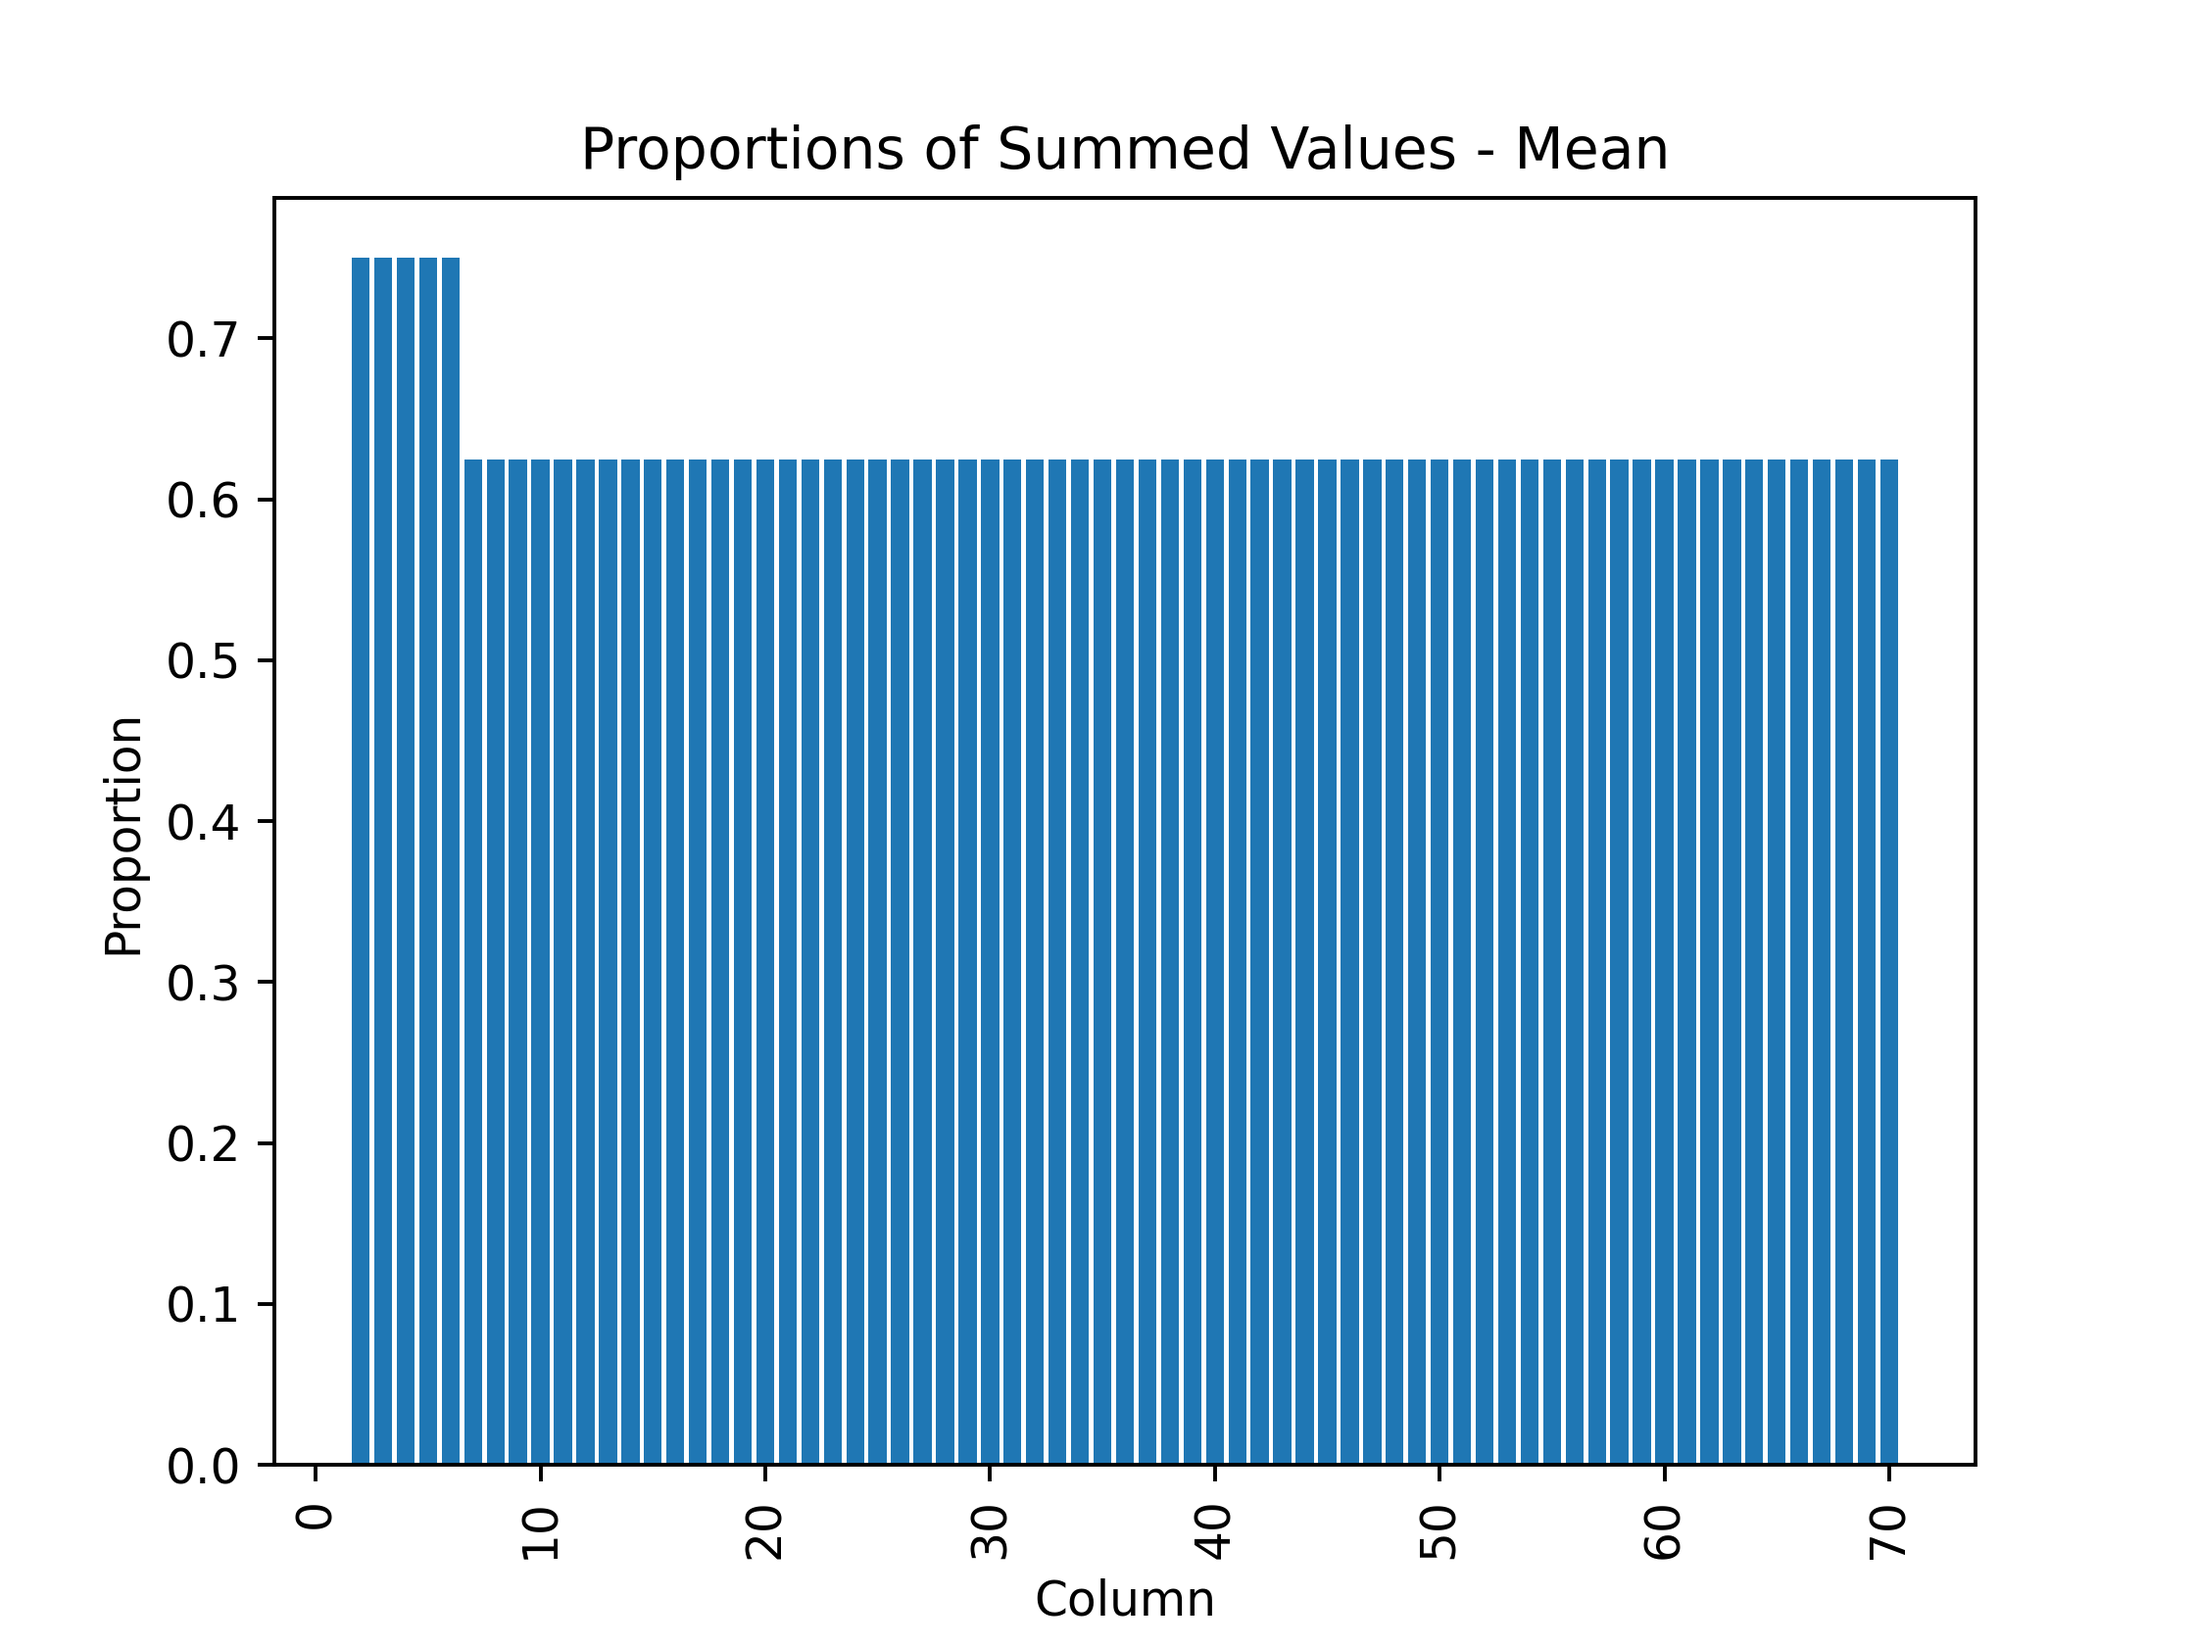
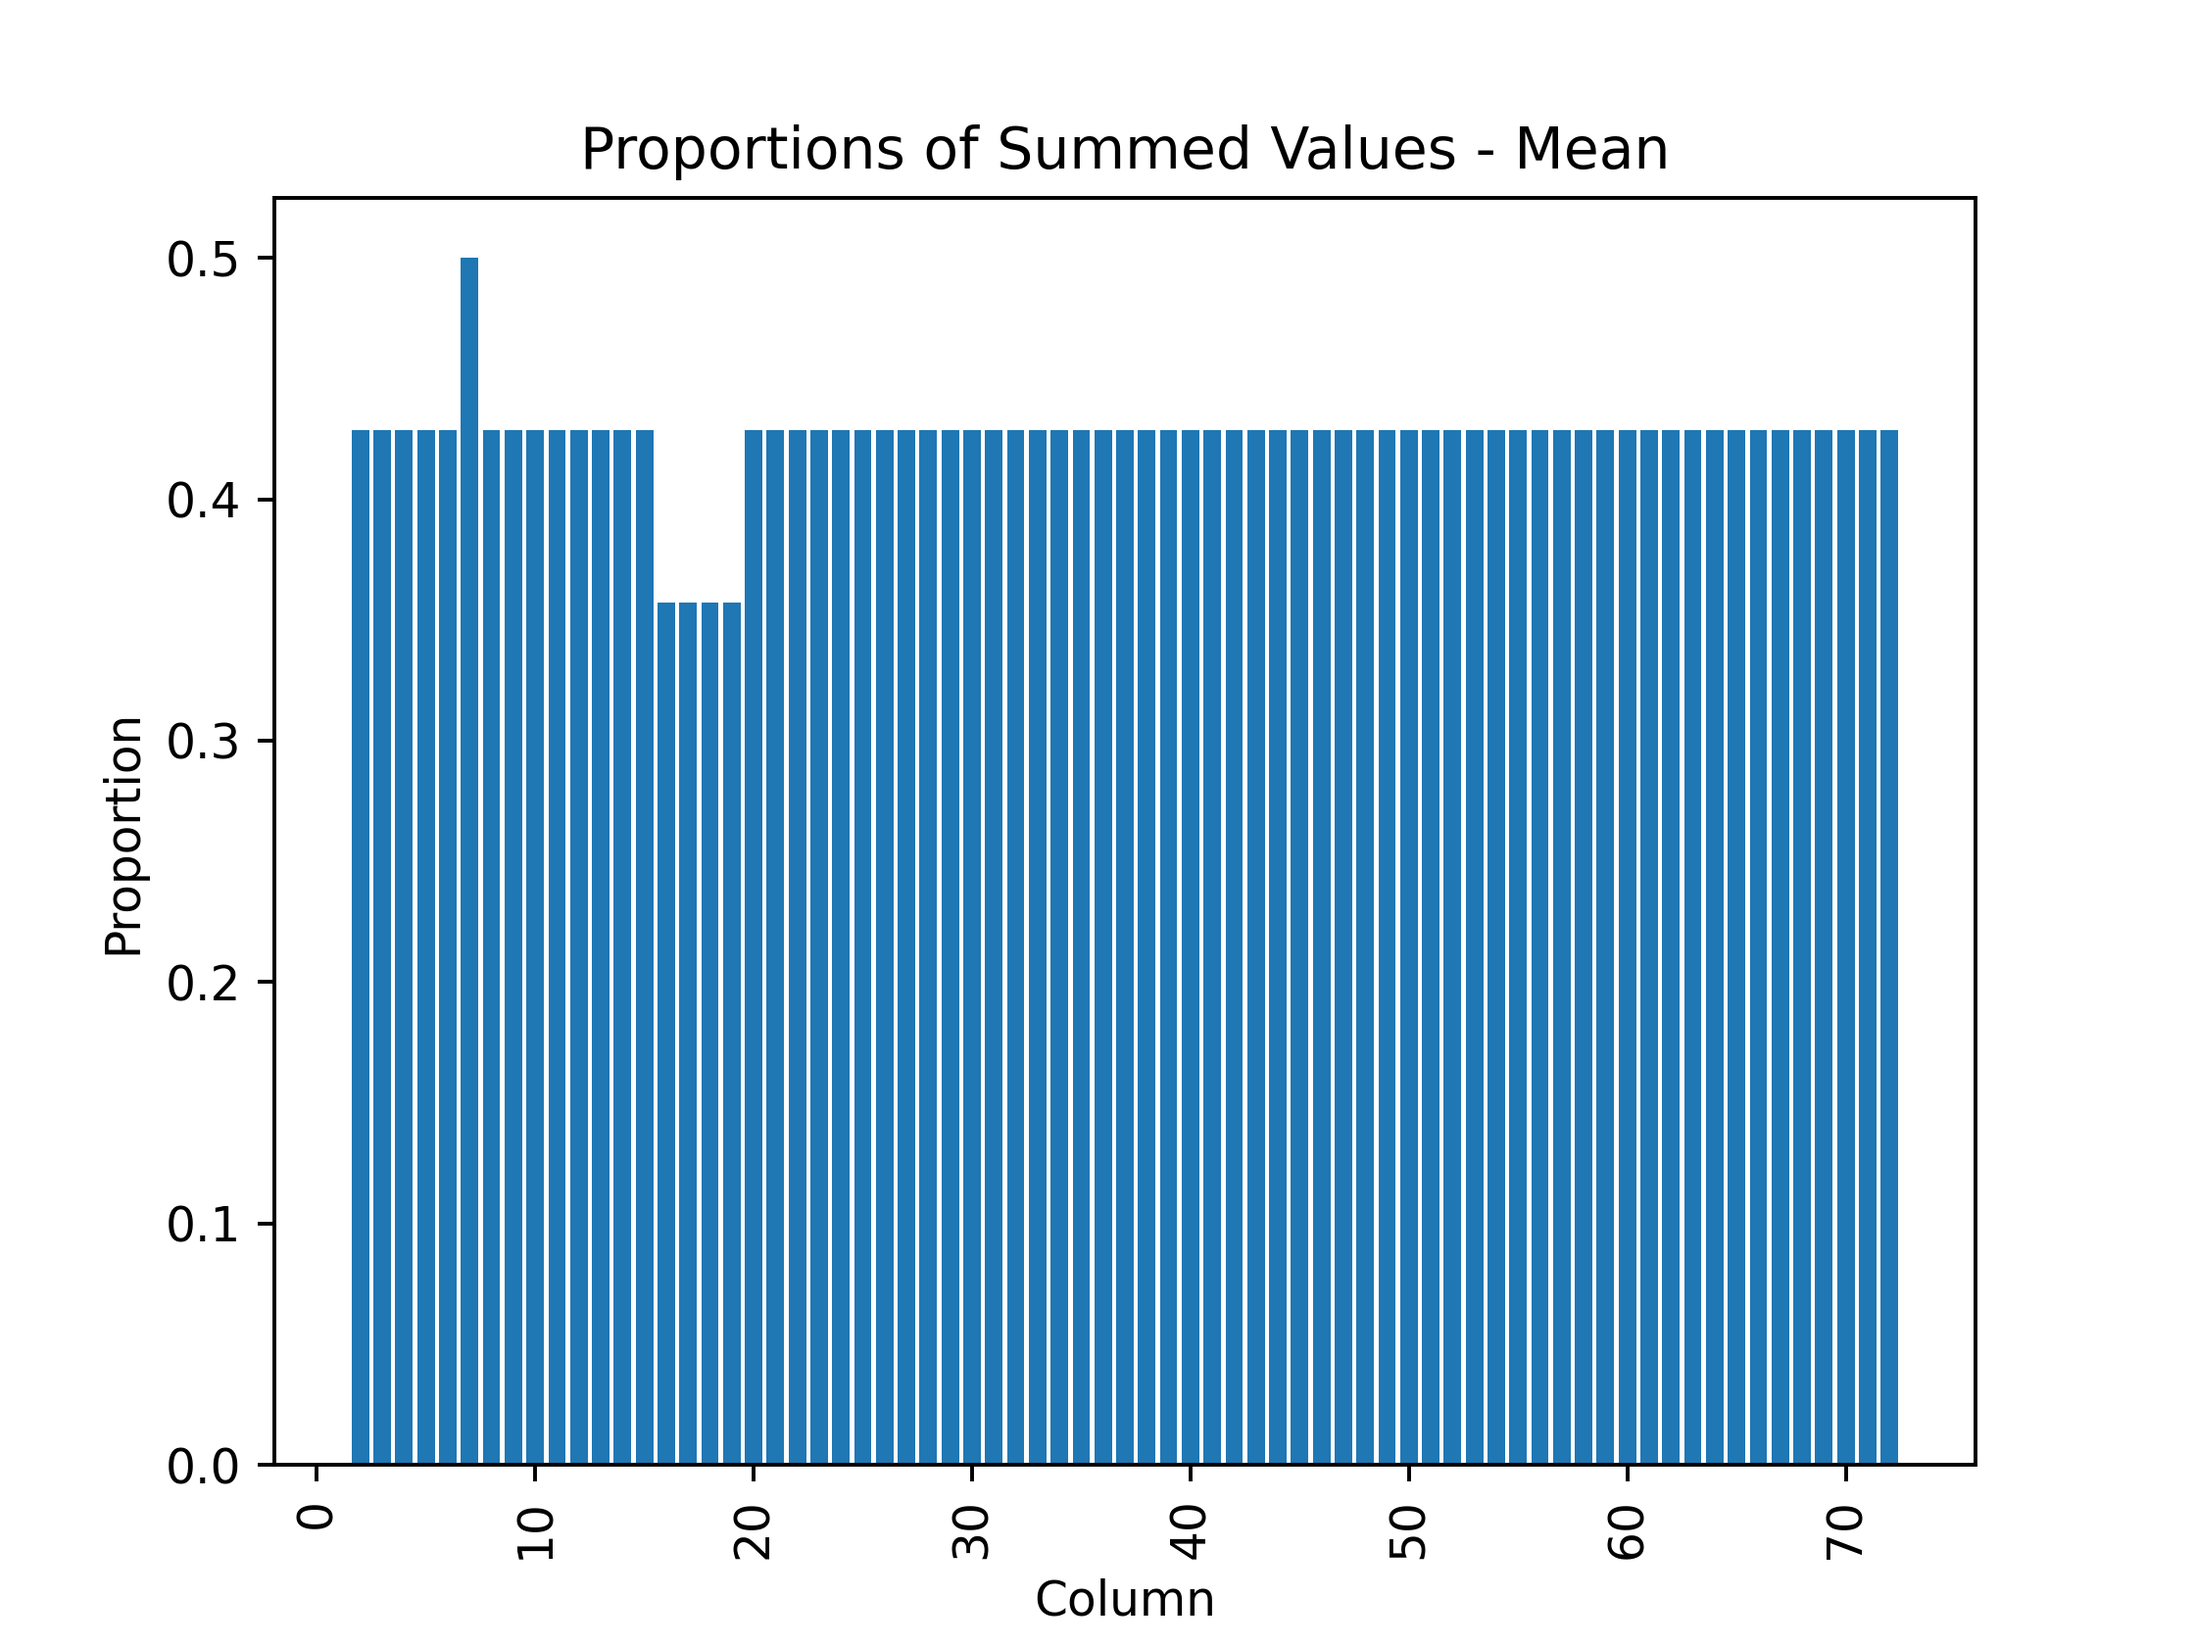
ADD: current day predictions

diff --git a/mlb_ml_classify_deep_learn_test.py b/mlb_ml_classify_deep_learn_test.py
@@ -248,7 +248,7 @@ class mlbDeep():
             X_pca_2 = self.pca.transform(X_std_2)
             team_1_df2023 = DataFrame(X_pca_1, columns=[f'PC{i}' for i in range(1, self.pca.n_components_+1)])
             team_2_df2023 = DataFrame(X_pca_2, columns=[f'PC{i}' for i in range(1, self.pca.n_components_+1)])
-            ma_range = [18,53]
+            ma_range = [15]
             # print(team_1_df2023)
             #avoid dropping column issue
             data1_mean = DataFrame()
